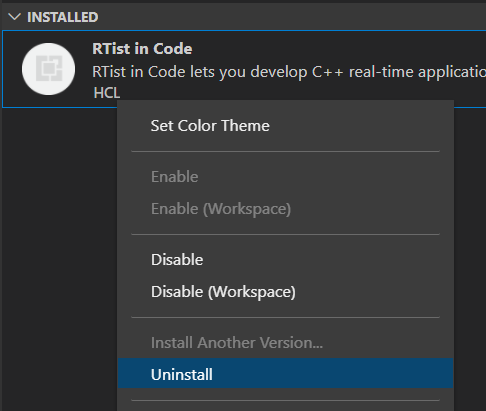
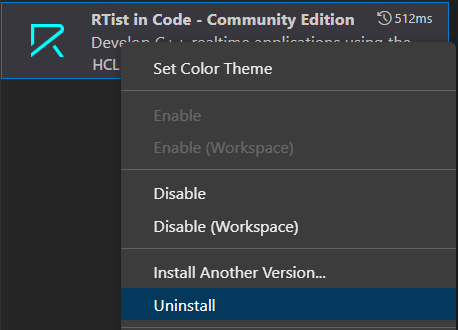
RIC-164: Updated installation instructions

diff --git a/docs-sources/installing.md b/docs-sources/installing.md
@@ -3,7 +3,7 @@
 
 {{product.name}} can be installed on top of Visual Studio Code or Eclipse Theia.
 
-The latest version of {{product.name}} is available on the [Visual Studio Marketplace](https://marketplace.visualstudio.com/vscode) and on the [Open VSX Registry](https://open-vsx.org/). To install that version into Visual Studio Code or Eclipse Theia follow these steps:
+The latest version of {{product.name}} is available on the [Visual Studio Marketplace](https://marketplace.visualstudio.com/search?term=%22rtist%20in%20code%22&target=VSCode&category=All%20categories&sortBy=Relevance) and on the [Open VSX Registry](https://open-vsx.org/). To install that version into Visual Studio Code or Eclipse Theia follow these steps:
 
 1) Click "Extensions" in the activity bar to open the Extensions view.
 
@@ -13,14 +13,16 @@ The latest version of {{product.name}} is available on the [Visual Studio Market
 
 3) Click the "Install" button to install the {{product.name}} extension
 
-XXX SCREENSHOT MISSING
+![](images/rtistic_ce_extension.png)
 
 Once the installation is finished you will see {{product.name}} appear in the "Installed" section of the Extensions view:
 
 ![](images/installed_extension.png)
 
+The screenshot above also shows that an extension for working with C/C++ has been installed. See [Setup C++ Build Tools](#setup-c-build-tools) for more information.
+
 ### Install from VSIX
-Another way to install {{product.name}} is to use a .vsix file. This can be useful if you want to install another version than the latest. You can download .vsix files for all released versions of {{product.name}} from both the [Visual Studio Marketplace](https://marketplace.visualstudio.com/vscode) and the [Open VSX Registry](https://open-vsx.org/). Once you have downloaded the .vsix file follow these steps to install it:
+Another way to install {{product.name}} is to use a .vsix file. This can be useful if you want to install another version than the latest. You can download .vsix files for all released versions of {{product.name}} from both the [Visual Studio Marketplace](https://marketplace.visualstudio.com/items?itemName=HCLTechnologies.hcl-rtistic-ce) and the [Open VSX Registry](https://open-vsx.org/). Once you have downloaded the .vsix file follow these steps to install it:
 
 1) If you already have a version of {{product.name}} installed, you can manually uninstall it first (see [Uninstalling](#uninstalling)). Note that this step is usually not required since the newly installed version of the extension will automatically replace the old one.
 
@@ -36,7 +38,7 @@ If the installation completes successfully you should see the following message 
 
 If instead the installation fails, this message will tell you the reason. One common reason for failure is that your version of Visual Studio Code or Eclipse Theia is not compatible (i.e. too old) for {{product.name}}.
 
-If you are unsure about which version of {{product.name}} you have installed, you can see the version in the extension's tooltip:
+If you are unsure about which version of {{product.name}} you have installed, you can see the version in the extension's tooltip, and the full build version is available in the page that appears if you double-click the extension:
 
 ![](images/extension_tooltip.png)
 
@@ -68,10 +70,12 @@ You may also need to adjust the arguments for the JVM. By default the JVM is lau
 To change the JVM arguments set the configuration setting `rtistic.languageServer.jvmArgs`.
 
 #### Setup License
-If you want to use all features of {{product.name}} you need a license.
+If you want to use all features of {{product.name}} you need a license. The {{product.name}} Community Edition doesn't require a license, but can on the other hand not be used for commercial purposes.
 
 #### Setup C++ Build Tools
 When {{product.name}} builds generated C++ code it uses C++ build tools such as a make tool, a C++ compiler, a C++ linker etc. These tools need to be in the path when you start Visual Studio Code or Eclipse Theia. If you have multiple C++ build tools installed, make sure the correct ones are present in the path before launching Visual Studio Code or Eclipse Theia. For example, if you use the Microsoft C++ compiler, it's recommended to launch from a Visual Studio native tools command prompt with the correct version (e.g. 32 bit or 64 bit). Build errors caused by inconsistent versions of C++ build tools being used can be tricky to find.
+
+You also need to install an extension for C/C++ development into Visual Studio Code or Eclipse Theia. [C/C++ for Visual Studio Code](https://code.visualstudio.com/docs/languages/cpp) is recommended.
 
 ## Uninstalling
 To uninstall {{product.name}} follow these steps:

diff --git a/docs-sources/validation.md b/docs-sources/validation.md
@@ -1,11 +1,25 @@
 ## Overview of Validation
-When validation runs
+{{product.name}} checks for semantic problems in your application. It does this by running a large number of validation rules each time an Art file has been changed. The rules run automatically as soon as you have made a change to an Art file (even before saving it). This ensures that errors and warnings (i.e. potential problems) are found as early as possible.
 
-Related elements
+Each validation rule has a default severity which will be used for the problems that are reported by the rule:
 
-Using the Problems view
+* **Error**
+  An error is a problem that is severe enough to prevent building a correct application. Errors must be fixed, and it will not be possible to build the Art files into a C++ application until all errors have been resolved.
 
-Quick fix
+* **Warning**
+  A warning is a potential problem, which you may or may not choose to fix. It can for example indicate a deviation from common conventions and best practises and it can indicate that the application will not behave as you may expect.
+
+* **Information**
+  An information is just a message that you should be aware of. It doesn't really indicate a problem, and you don't need to fix it.
+
+You can customize the default severity of any validation rule, and you can also choose to completely disable a certain validation rule that you don't think provides any value. See [Configuring Validation](#configuring-validation) for more information.
+
+## Related elements
+
+
+## Using the Problems view
+
+## Quick fix
 
 ## Configuring Validation
 Validation can be configured to change which rules that should run, and what severity they should report found problems with. By default every [validation rule](#validation-rules) is enabled and uses a predefined severity level. Validation rules can be configured either globally by means of a setting, or locally by means of a property [rule_config](../art-lang#rule_config). In both cases the rule configuration consists of a comma-separated list of 5 letter strings where the first letter specifies if the rule is disabled and it's severity (X,I,W,E) and remaining letters specify the rule id. For example, the rule configuration `X0003,I0004,W0009,E0005` means the following:
@@ -15,7 +29,7 @@ Validation can be configured to change which rules that should run, and what sev
 * The rule [ART_0009_invalidProperty](#art_0009_invalidproperty) has its severity set to Warning
 * The rule [ART_0005_choiceWithoutElseTransition](#art_0005_choicewithoutelsetransition) has its severity set to Error
 
-To configure validation rules globally, use the setting **Validation: Rule Configuration**. A global configuration will apply for all Art files in the workspace, and all Art elements within those files, unless a local rule configuration has been set on an element.
+To configure validation rules globally, use the configuration setting `rtistic.validation.ruleConfiguration`. A global configuration will apply for all Art files in the workspace, and all Art elements within those files, unless a local rule configuration has been set on an element.
 
 To configure validation rules locally, set the property [rule_config](../art-lang#rule_config) on an Art element. It will affect the validation of that Art element itself, as well as all elements contained within that Art element. Here is an example of how to disable the validation rule [ART_0003_nameShouldStartWithUpperCase](#art_0003_nameshouldstartwithuppercase) on a capsule. Note that it also will disable this rule for elements contained within the capsule, such as states.
 
@@ -33,7 +47,7 @@ capsule customCapsule // no warning even if capsule name is not capitalized
 ```
 
 ## Validation Rules
-This chapter lists all validation rules which {{product.name}} checks your Art application against. All these checks run automatically as soon as you have made a change to an Art file (even before saving it). This ensures that errors and potential problems are found as early as possible.
+This chapter lists all validation rules which {{product.name}} checks your Art application against.
 
 ### ART_0001_invalidNameCpp
 | Severity | Reason | Quick Fix

diff --git a/docs-sources/overview.md b/docs-sources/overview.md
@@ -2,6 +2,6 @@
 
 It runs as an extension of Visual Studio Code or Eclipse Theia. Follow the [installation instructions](../installing) for installing it.
 
-{{product.name}} supports [the Art language](../art-lang) which is an extension of the C++ language. It provides high-level concepts useful when designing stateful, event-driven realtime applications. It is a textual language, but also provides a graphical notation that includes class, state and structure diagrams.
+{{product.name}} supports [the Art language](../art-lang) which is an extension of the C++ language. It provides high-level concepts useful when designing stateful, event-driven realtime applications, such as capsules, state machines and protocols. It is a textual language, but also provides a graphical notation that includes class, state and structure diagrams.
 
-{{product.name}} translates Art files into C++ code which can be compiled on any target system. The generated code makes use of the [Target RunTime System](../target-rts) which is a C++ library that implements the concepts of the Art language.
+{{product.name}} translates Art files into efficient C++ code which can be compiled on any target system. The generated code makes use of the [Target RunTime System](../target-rts) which is a C++ library that implements the concepts of the Art language.
